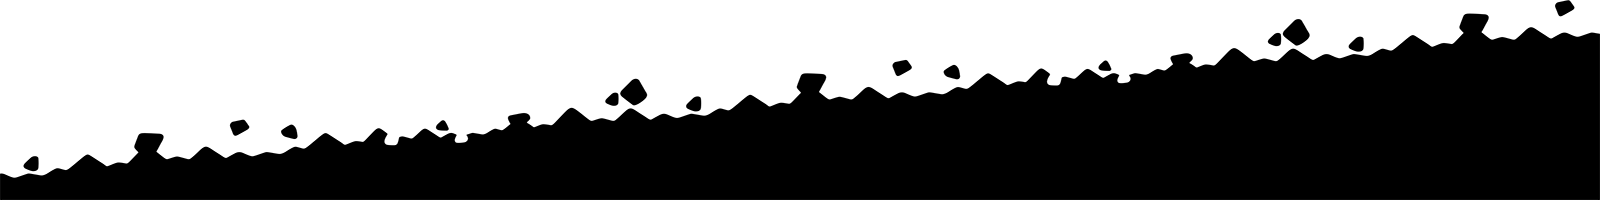
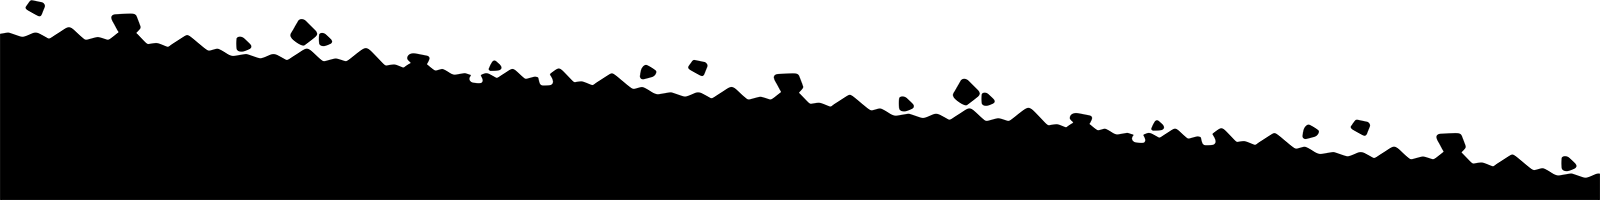
Add decorative head mask transition and tiled destination background
- Add new decorative transition section between Featured Trips and Recent Places using background_head_mask.webp
- Replace Recent Places background with tiled homepage_destination_background.webp pattern (300px tiles)
- Implement seamless background carry-over system using useSeamlessCarryOver hook
- Update background_head_mask.webp asset
- Enhance z-index organization for better layering throughout Featured Trips section

🤖 Generated with [Claude Code](https://claude.com/claude-code)

diff --git a/app/page.tsx b/app/page.tsx
@@ -9,14 +9,27 @@ export default function Home() {
   const sectionRef = useRef<HTMLElement | null>(null)
   const decoRef = useRef<HTMLDivElement | null>(null)
 
+  // NEW: refs for the head mask band and the Recent Places section
+  const headDecoRef = useRef<HTMLDivElement | null>(null)
+  const recentRef = useRef<HTMLElement | null>(null)
+
   // Tweak this if you want a tiny nudge (e.g., to account for mask feathering)
-  const ADJUST_PX = -32
+  const ADJUST_PX_FOOT = -32
+  const ADJUST_PX_HEAD = -32
 
   useSeamlessBackground({
     sectionRef,
     decoRef,
     bgUrl: '/homepage_background.webp',
-    adjustPx: ADJUST_PX,
+    adjustPx: ADJUST_PX_FOOT,
+  })
+
+  // Carry over tile alignment from the head mask band to Recent Places
+  useSeamlessCarryOver({
+    fromRef: headDecoRef,
+    toRef: recentRef,
+    tileHeightPx: 300,  // fixed tile height for /homepage_destination_background.webp
+    adjustPx: ADJUST_PX_HEAD,
   })
 
   const [currentIndex, setCurrentIndex] = useState(0)
@@ -35,7 +48,6 @@ export default function Home() {
     const interval = setInterval(() => {
       setCurrentIndex((prev) => (prev + 1) % journeyImages.length)
     }, 3000)
-
     return () => clearInterval(interval)
   }, [journeyImages.length])
 
@@ -152,7 +164,7 @@ export default function Home() {
           </div>
 
           {/* Homepage Image 2 - Right edge */}
-          <div className="absolute right-0 z-30" style={{ top: "-300px" }}>
+          <div className="absolute right-0 z-30" style={{ top: '-300px' }}>
             <img
               src="/homepage_image_2.png"
               alt="Homepage Image 2"
@@ -162,9 +174,8 @@ export default function Home() {
         </div>
       </section>
 
-      {/* Decorative transition (mask normal, background NOT flipped) */}
+      {/* Decorative transition (foot mask; background not flipped) */}
       <div className="relative z-20 h-[200px] -mt-8">
-        {/* Mask wrapper: normal orientation */}
         <div
           className="absolute inset-0"
           style={{
@@ -176,31 +187,32 @@ export default function Home() {
             maskSize: '100% auto',
             WebkitMaskPosition: 'center bottom',
             maskPosition: 'center bottom',
-            // Optional: ensure no overflow while masking
             overflow: 'hidden'
           }}
         >
-          {/* Background layer: normal orientation */}
+          {/* Background layer we align TO (hook sets backgroundPositionY) */}
           <div
-            ref={decoRef} // <-- your hook will set backgroundPositionY on THIS element
+            ref={decoRef}
             className="absolute inset-0"
             style={{
               backgroundImage: 'url(/homepage_background.webp)',
               backgroundSize: '100% auto',
               backgroundRepeat: 'repeat-y',
               backgroundPositionX: 'center',
-              // backgroundPositionY is set dynamically by the hook
+              // Y set by useSeamlessBackground
             }}
           />
         </div>
       </div>
 
-
       {/* Featured Trips */}
       <section className="py-16 px-4 relative">
         <div className="max-w-7xl mx-auto">
           <div className="relative mb-12">
-            <div className="absolute right-0 z-5" style={{ transform: 'translate(-44rem, 2rem)' }}>
+            <div
+              className="absolute right-0"
+              style={{ transform: 'translate(-44rem, 2rem)', zIndex: 5 }}
+            >
               {journeyImages.map((image, index) => (
                 <img
                   key={index}
@@ -215,22 +227,25 @@ export default function Home() {
             <img
               src="/journeys_title.png"
               alt="Featured Journeys"
-              className="h-auto max-w-4xl relative z-20"
-              style={{ transform: 'translate(-5rem, -4rem)' }}
+              className="h-auto max-w-4xl relative"
+              style={{ transform: 'translate(-5rem, -4rem)', zIndex: 20 }}
             />
             <img
               src="/journeys_subtitle.png"
               alt="Explore my most memorable train adventures"
-              className="h-auto max-w-4xl relative z-20"
-              style={{ transform: 'translate(2rem, -16rem)' }}
+              className="h-auto max-w-4xl relative"
+              style={{ transform: 'translate(2rem, -16rem)', zIndex: 20 }}
             />
           </div>
 
           {/* Journey Carousel */}
-          <div className="relative w-screen left-1/2 -ml-[50vw] mt-96" style={{ aspectRatio: '1920/800' }}>
+          <div
+            className="relative w-screen left-1/2 -ml-[50vw] mt-96"
+            style={{ aspectRatio: '1920/800' }}
+          >
             {/* Background with mask */}
             <div
-              className="absolute inset-0 z-0"
+              className="absolute inset-0"
               style={{
                 backgroundImage: 'url(/homepage_journey_slide_background.avif)',
                 backgroundSize: 'cover',
@@ -241,12 +256,13 @@ export default function Home() {
                 WebkitMaskSize: '100% 100%',
                 maskSize: '100% 100%',
                 WebkitMaskRepeat: 'no-repeat',
-                maskRepeat: 'no-repeat'
+                maskRepeat: 'no-repeat',
+                zIndex: 0,
               }}
             />
 
             {/* Train image overlay - top left, above mask */}
-            <div className="absolute -top-80 left-0 z-20">
+            <div className="absolute -top-80 left-0" style={{ zIndex: 20 }}>
               <img
                 src="/homepage_journey_train_image.png"
                 alt="Train Journey"
@@ -255,7 +271,7 @@ export default function Home() {
             </div>
 
             {/* Masked journey image - left edge */}
-            <div className="absolute left-0 top-1/2 -translate-y-1/2 z-15">
+            <div className="absolute left-0 top-1/2 -translate-y-1/2" style={{ zIndex: 15 }}>
               <div
                 className={`w-[48rem] h-[48rem] transition-transform duration-300 ease-in-out ${
                   isTransitioning ? '-translate-x-full' : 'translate-x-0'
@@ -296,7 +312,7 @@ export default function Home() {
             </div>
 
             {/* Journey Text Overlay - Center right */}
-            <div className="absolute right-64 top-1/2 -translate-y-1/2 z-25 text-white max-w-md">
+            <div className="absolute right-64 top-1/2 -translate-y-1/2 text-white max-w-md" style={{ zIndex: 25 }}>
               <h2 className="text-4xl font-bold mb-4">{featuredTrips[currentSlide].name}</h2>
               <p className="text-lg mb-6 leading-relaxed opacity-90">
                 {featuredTrips[currentSlide].description}
@@ -310,25 +326,24 @@ export default function Home() {
               </button>
             </div>
 
-            {/* Navigation Arrows - Positioned in center of carousel */}
-            {/* Previous Button */}
+            {/* Navigation Arrows */}
             <button
               onClick={prevSlide}
-              className="absolute left-8 top-1/2 -translate-y-1/2 z-30 p-6 hover:scale-110 transition-transform duration-200"
+              className="absolute left-8 top-1/2 -translate-y-1/2 p-6 hover:scale-110 transition-transform duration-200"
+              style={{ zIndex: 30 }}
             >
               <img src="/arrow_prev.webp" alt="Previous" className="w-16 h-16" />
             </button>
-
-            {/* Next Button */}
             <button
               onClick={nextSlide}
-              className="absolute right-8 top-1/2 -translate-y-1/2 z-30 p-6 hover:scale-110 transition-transform duration-200"
+              className="absolute right-8 top-1/2 -translate-y-1/2 p-6 hover:scale-110 transition-transform duration-200"
+              style={{ zIndex: 30 }}
             >
               <img src="/arrow_next.webp" alt="Next" className="w-16 h-16" />
             </button>
 
             {/* Slide Indicators */}
-            <div className="absolute bottom-8 left-1/2 -translate-x-1/2 z-25">
+            <div className="absolute bottom-8 left-1/2 -translate-x-1/2" style={{ zIndex: 25 }}>
               <div className="flex justify-center space-x-2">
                 {featuredTrips.map((_, index) => (
                   <button
@@ -345,8 +360,49 @@ export default function Home() {
         </div>
       </section>
 
+      {/* Decorative transition (head mask; background not flipped) */}
+      <div className="relative z-20 h-[200px] -mt-8">
+        <div
+          className="absolute inset-0"
+          style={{
+            WebkitMaskImage: 'url(/background_head_mask.webp)',
+            maskImage: 'url(/background_head_mask.webp)',
+            WebkitMaskRepeat: 'no-repeat',
+            maskRepeat: 'no-repeat',
+            WebkitMaskSize: '100% auto',
+            maskSize: '100% auto',
+            WebkitMaskPosition: 'center top',
+            maskPosition: 'center top',
+            overflow: 'hidden'
+          }}
+        >
+          {/* Background layer we align FROM */}
+          <div
+            ref={headDecoRef}
+            className="absolute inset-0"
+            style={{
+              backgroundImage: 'url(/homepage_destination_background.webp)',
+              backgroundRepeat: 'repeat',
+              backgroundSize: 'auto 300px', // fixed tile height (300px)
+              backgroundPositionX: 'center',
+              // Y remains default; we offset the next section instead
+            }}
+          />
+        </div>
+      </div>
+
       {/* Recent Places */}
-      <section className="py-16 px-4 bg-gray-50">
+      <section
+        ref={recentRef}
+        className="py-16 px-4 -mt-8"
+        style={{
+          backgroundImage: 'url(/homepage_destination_background.webp)',
+          backgroundRepeat: 'repeat',
+          backgroundSize: 'auto 300px', // same fixed tile height
+          backgroundPositionX: 'center',
+          // backgroundPositionY is set by useSeamlessCarryOver
+        }}
+      >
         <div className="max-w-7xl mx-auto">
           <div className="flex justify-between items-center mb-12">
             <h3 className="text-3xl font-bold text-gray-900">Recent Destinations</h3>
@@ -467,7 +523,50 @@ function useSeamlessBackground({
   }, [ratio, sectionRef, decoRef, adjustPx])
 }
 
-/* ---------- Data (unchanged from your snippet) ---------- */
+/* ---------- Seamless carry-over for second decorative band ---------- */
+
+function useSeamlessCarryOver({
+  fromRef,
+  toRef,
+  tileHeightPx,
+  adjustPx = 0,
+}: {
+  fromRef: React.RefObject<HTMLElement>
+  toRef: React.RefObject<HTMLElement>
+  tileHeightPx: number
+  adjustPx?: number
+}) {
+  useEffect(() => {
+    const fromEl = fromRef.current
+    const toEl = toRef.current
+    if (!fromEl || !toEl || tileHeightPx <= 0) return
+
+    const apply = () => {
+      // how much vertical background we “consumed” inside the decorative band
+      const consumed = fromEl.getBoundingClientRect().height
+      const remainder = Math.round(consumed % tileHeightPx)
+
+      // start the next section exactly where this band ended
+      const offsetY = -(remainder + adjustPx)
+      toEl.style.backgroundPositionY = `${offsetY}px`
+    }
+
+    apply()
+
+    // Recompute on layout changes
+    const ro = new ResizeObserver(apply)
+    ro.observe(fromEl)
+    const onWinResize = () => apply()
+    window.addEventListener('resize', onWinResize)
+
+    return () => {
+      ro.disconnect()
+      window.removeEventListener('resize', onWinResize)
+    }
+  }, [fromRef, toRef, tileHeightPx, adjustPx])
+}
+
+/* ---------- Data (unchanged) ---------- */
 
 // Carousel images from title_carousel_1 to title_carousel_8
 const carouselImages = [
